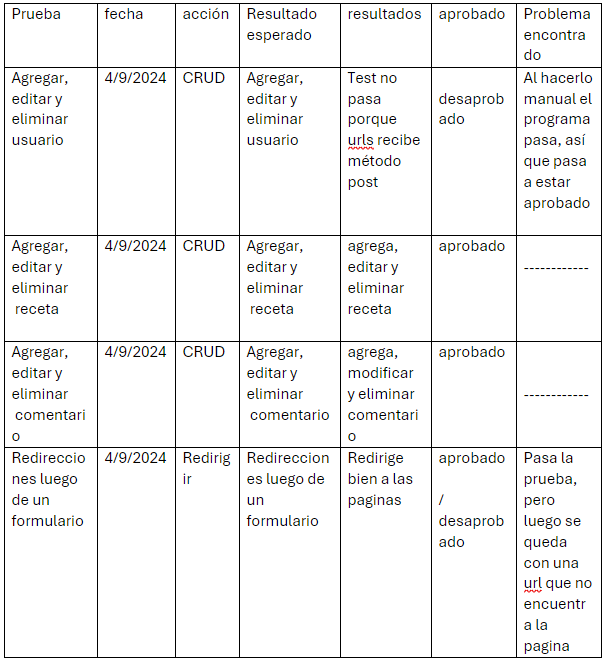
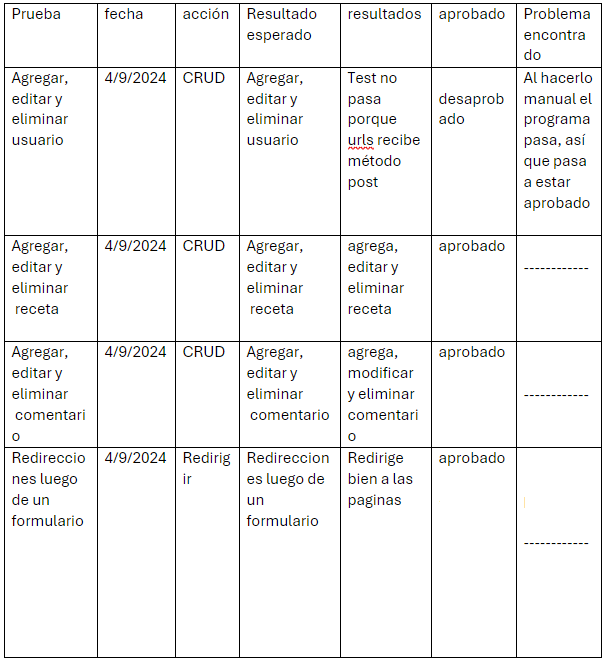
arregle un problema que tenian las url que redirigian mal

Changed region(s): [[0.86, 0.6637, 0.9786, 0.9955], [0.7117, 0.7541, 0.8303, 0.8446]]

diff --git a/coomidas/views.py b/coomidas/views.py
@@ -1,4 +1,4 @@
-from django.shortcuts import render 
+from django.shortcuts import render , redirect
 from django.views.generic.detail import DetailView
 from django.views.generic.edit import CreateView , UpdateView , DeleteView
 from django.views.generic import ListView
@@ -30,7 +30,7 @@ def agregar_usuario(request):
             user = authenticate(username=usuario, password=contrasenia)
             login(request, user)
 
-            return render(request, "usuarios/perfil_usuario.html",{"user": user})
+            return redirect("perfil")
             
         msg_register = "Error en los datos ingresados"
 
@@ -52,7 +52,7 @@ def login_usuario(request):
             if user is not None: 
                 login(request, user)
                 usuario = Usuario_perfil.objects.filter(username=request.user.username).first()
-                return render(request, "usuarios/perfil_usuario.html",{"user": user, "datos_finales_usuario":usuario})
+                return redirect("perfil")
 
         msg_login = "Usuario o contraseña incorrectos" 
 
@@ -81,7 +81,7 @@ def terminar_de_rellenar_perfil(req):
             datos_finales_usuario = Usuario_perfil(nombre=info['nombre'], apellido=info['apellido'], username=info['username'])
             datos_finales_usuario.save()
             
-            return render (req, "usuarios/perfil_usuario.html",{"datos_finales_usuario": datos_finales_usuario})
+            return redirect("perfil")
     else: 
         miFormulario = Final_formulario_perfil()
 
@@ -103,9 +103,9 @@ def editar_perfil(request):
             perfil = Usuario_perfil.objects.get(username=username_viejo)
             perfil.username = request.POST.get('username')
             perfil.save()
-            return render(request, 'index.html')   
+            return redirect('inicio')   
         else:
-            return render(request, 'index.html')
+            return redirect('inicio')   
 
     else:  
         
@@ -124,11 +124,11 @@ def editar_nombre_apellido(request):
         
         if form.is_valid():
             form.save()
-            return render(request, 'index.html')  
+            return redirect('inicio')  
     else:
         form = editar_formulario_perfil(instance=perfil)
 
-    return render(request, 'usuarios/editar_nombre_apellido.html', {'form': form})
+    return redirect(request, 'usuarios/editar_nombre_apellido.html', {'form': form})
 
 
 @login_required
@@ -140,8 +140,8 @@ def eliminar_perfil(request):
         if Usuario_perfil.objects.get(username=usuario) :
             perfil = Usuario_perfil.objects.get(username=usuario)
             perfil.delete()
-            return render(request,'index.html')
-        return render(request,'index.html')
+            return redirect('inicio')
+        return redirect('inicio')
     return render(request,'usuarios/usuario_eliminar.html')
 
 
